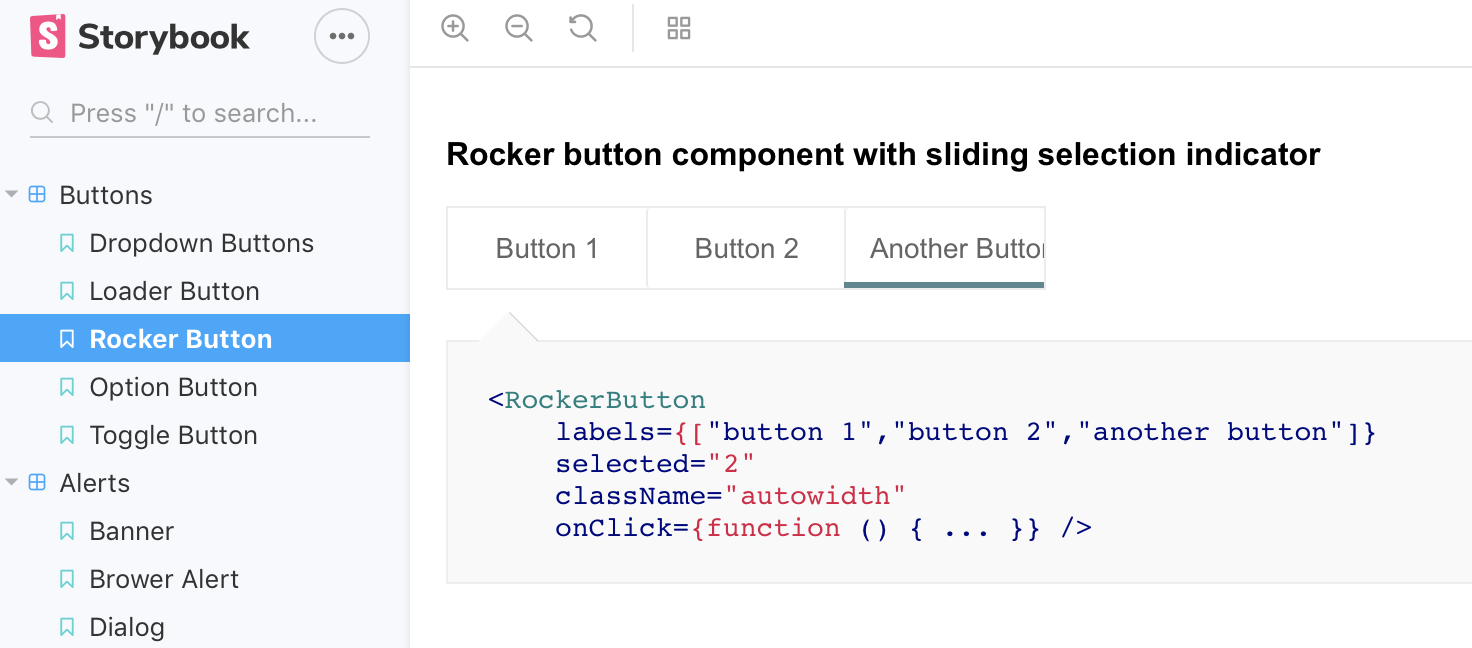
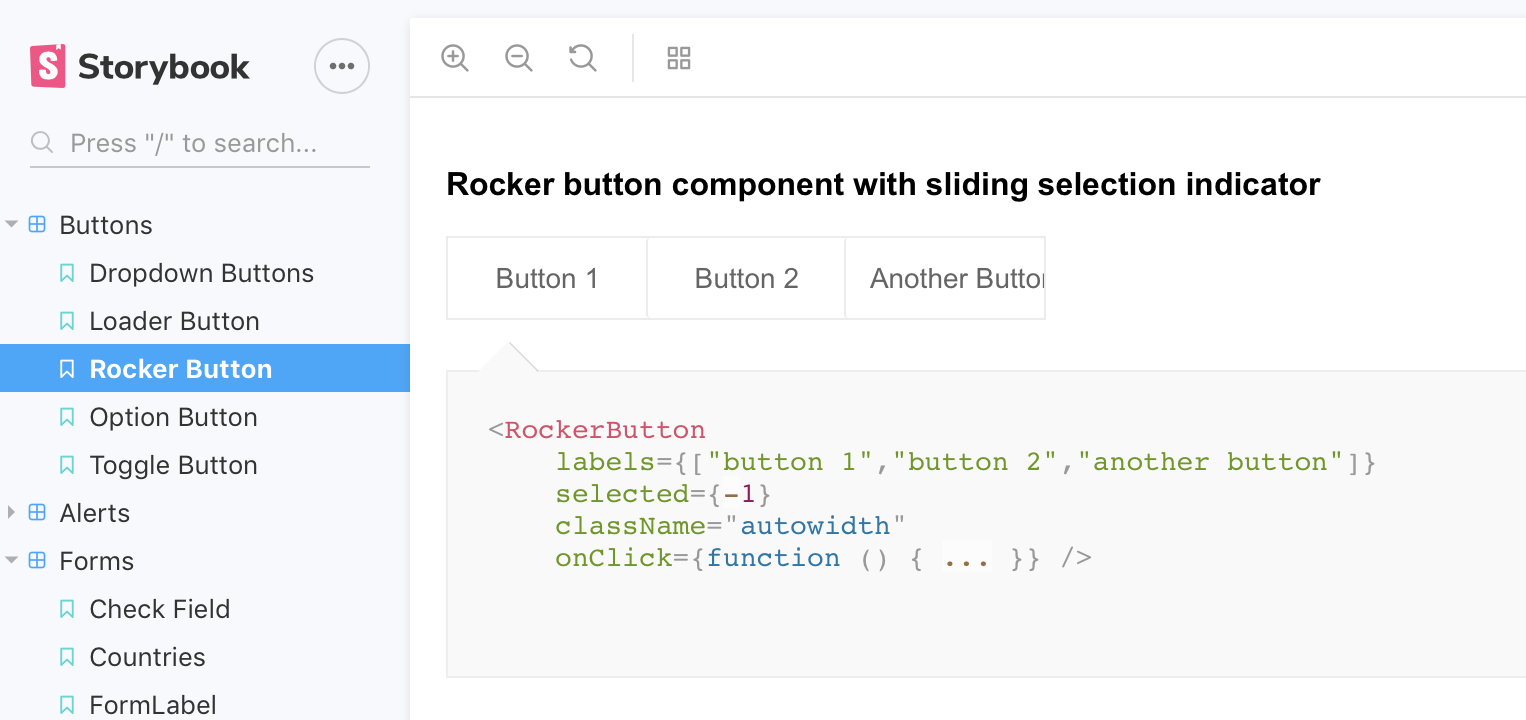
Extract variables into their own container.

diff --git a/src/index.js b/src/index.js
@@ -1,25 +1,31 @@
-import React from "react";
+import React, { Component } from "react";
 import Prism from 'prismjs';
+import "prismjs/components/prism-jsx";
 
-import"prismjs/components/prism-jsx";
-import "prismjs/themes/prism.css";
+const highlight = (code) => Prism.highlight(code, Prism.languages.jsx);
 
-function serialize (value, propName, context) {
-    if (typeof(value) === "function") {
+function dealWithSerializedValues (str, propName, value, context) {
+    if (str.length > 64 && context.extractVars) {
+        context.vars[propName] = context.vars[propName] || [];
+        context.vars[propName].push(str);
+
+        return `{${propName + context.vars[propName].length}}`;
+    }
+
+    return str;
+}
+
+function serialize (propName, value, context) {
+    if (value === null) {
+        return "";
+    } else if (typeof(value) === "function") {
         return "{function () { ... }}";
     } else if ((value.type && value.props) || value.type && value.type.displayName) {
-        const str = `${buildJsxString(value, 0, context)}`.replace(/    /g, "");
-
-        if (str.length > 32 && context.extractVars) {
-            context.vars[propName] = context.vars[propName] || [];
-            context.vars[propName].push(str);
-
-            return `{${propName + context.vars[propName].length}}`;
-        }
-
-        return `{${str.replace(/(\n|____)/g, "")}}`;
+        return dealWithSerializedValues(`${buildJsxString(value, 0, context)}`, propName, value, context);
     } else if (typeof(value) === "object") {
-        return `{${JSON.stringify(value)}}`;
+        return dealWithSerializedValues(`{${JSON.stringify(value)}}`, propName, value, context);
+    } else if (typeof(value) === "number" || typeof(value) === "boolean") {
+        return `{${value}}`;
     } else {
         return `"${value.toString()}"`;
     }
@@ -35,8 +41,11 @@ function indent (amount) {
     return str;
 }
 
+function formatInlineProp (str) {
+    return str.replace(/(\n|____)/g, "");
+}
+
 function buildJsxString (component, indentLevel, context) {
-    debugger;
     if (typeof(component) === "string") {
         return component;
     }
@@ -49,7 +58,7 @@ function buildJsxString (component, indentLevel, context) {
     const type = component.type.displayName || component.type;
     const propKeys = Object.keys(props).filter((k) => k !== "children");
     const propsArray = propKeys.map((key, i) => {
-        const value = serialize(component.props[key], key, context);
+        const value = formatInlineProp(serialize(key, component.props[key], context));
 
         if (propKeys.length === 1) {
             return `${key}=${value}`;
@@ -85,7 +94,8 @@ function printVar (name, value) {
 function extractCode (children, extractVars, highlightFn) {
     const context = { vars: [], extractVars };
     let markup = buildJsxString(children, 0, context);
-    const varsStr = Object.keys(context.vars)
+    const varsStr = extractVars && (Object.keys(context.vars)
+        .filter((propName) => context.vars[propName].length)
         .map((propName) => {
             if (context.vars[propName].length === 1) {
                 markup = markup.replace(new RegExp(`${propName}1`), `${propName}`);
@@ -95,32 +105,41 @@ function extractCode (children, extractVars, highlightFn) {
                 return context.vars[propName].map((v, i) => printVar(propName + (i + 1), v)).join("\n\n");
             }
         })
-        .join("\n\n");
+        .join("\n\n"));
 
-    return highlightFn((varsStr + "\n\n" + markup)).replace(/____/g, "<span>    </span>");
+    return {
+        markup: highlightFn(markup).replace(/____/g, "<span>    </span>"),
+        vars: highlightFn(varsStr || "").replace(/____/g, "<span>    </span>"),
+    };
 }
 
-const highlight = (code) => Prism.highlight(code, Prism.languages.jsx);
+function Jsx ({ children, highlightFn=highlight, jsxOnly=false, extractVars=true }={}) {
+    const { markup, vars } = extractCode(children, extractVars, highlightFn);
 
-function Jsx ({ children, highlightFn=highlight, render=true, extractVars=false }={}) {
     return (
-        <div className={"jsx-xray" + (render ? " with-demo" : "")}>
+        <div className={"jsx-xray" + (!jsxOnly ? " with-demo" : "")}>
             {
-                render &&
+                !jsxOnly &&
                 <div className="jsx-xray--rendered-component">
                     { children }
                 </div>
             }
             <div style={{ display: "none" }}>
[2 lines of base64/hex data omitted]
             </div>
             <pre>
                 {
-                  render &&
+                  !jsxOnly &&
                   <span className="arrow-container">
                   </span>
                 }
-                <code className="" dangerouslySetInnerHTML={{ __html: extractCode(children, extractVars, highlightFn) }} />
+                <code>
+                    {
+                        extractVars && vars &&
+                        <div dangerouslySetInnerHTML={{ __html: vars + "<br/><br/>" }} />
+                    }
+                    <div dangerouslySetInnerHTML={{ __html: markup }} />
+                </code>
             </pre>
         </div>
     );

diff --git a/css/index.css b/css/index.css
@@ -1,0 +1,30 @@
+.jsx-xray pre {
+    background-color: #f9f9f9;
+    position: relative;
+    overflow: unset;
+    padding: 20px;
+}
+
+.jsx-xray.with-demo pre {
+    margin-top: 25px;
+}
+
+.jsx-xray .arrow-container {
+    display: inline-block;
+    overflow: hidden;
+    height: 25px;
+    top: 0;
+    left: 0;
+    position: absolute;
+    transform: translate(50%, -100%);
+}
+
+.jsx-xray .arrow-container:before {
+    display: inline-block;
+    content: "";
+    border: 15px solid transparent;
+    border-bottom-color: #f9f9f9;
+    filter: drop-shadow(0px 1px 0.5px rgba(0, 0, 0, 0.15)) drop-shadow(1px 0px 0.5px rgba(0, 0, 0, 0.15));
+    position: relative;
+    top: -5px;
+}
